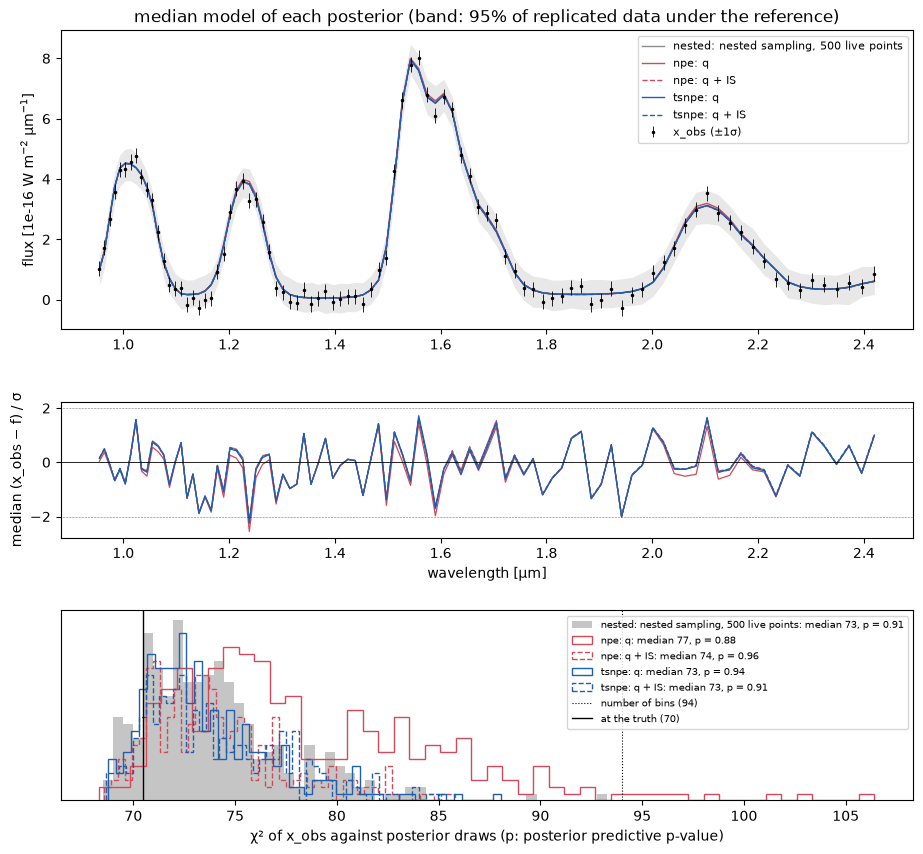
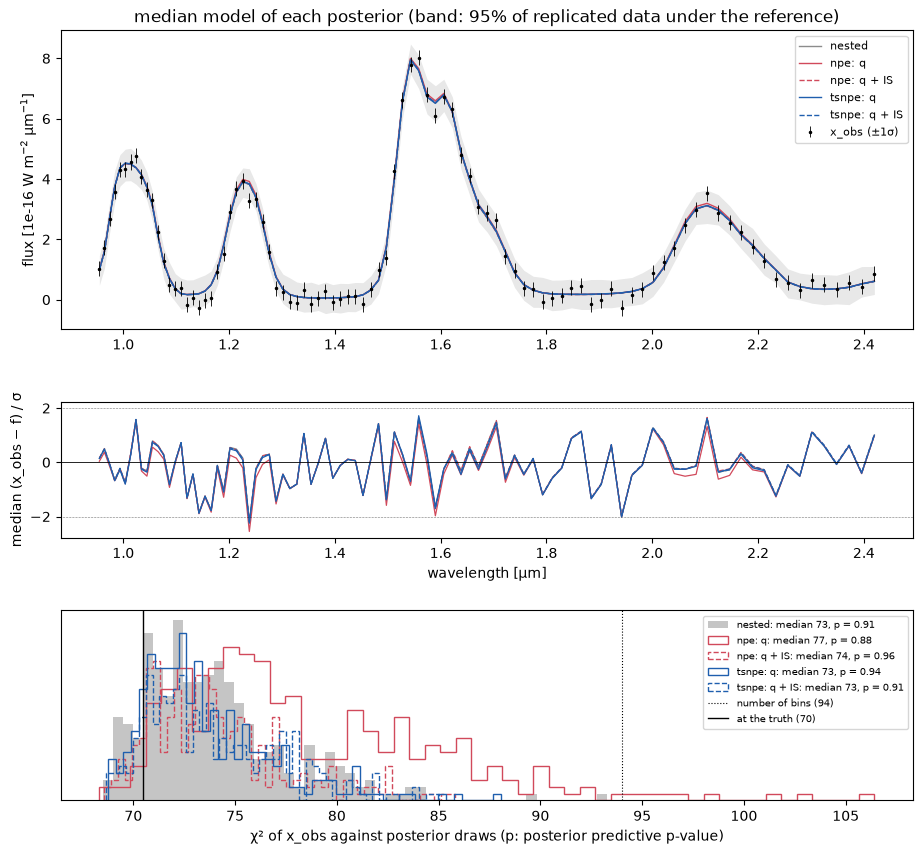
Polish: readable corner ticks, plainer comparison table, README wording
Claude-Session: https://claude.ai/code/session_01L5ndZ2ssohXfSJ8uPoT5r7

Changed region(s): [[0.6067, 0.7002, 0.9707, 0.8525], [0.6977, 0.0304, 0.9707, 0.1827]]

diff --git a/compare.py b/compare.py
@@ -18,6 +18,7 @@ import matplotlib
 
 matplotlib.use("Agg")
 import matplotlib.pyplot as plt
+import matplotlib.ticker
 import numpy as np
 from scipy.ndimage import gaussian_filter
 
@@ -34,7 +35,7 @@ def load_sets(folder: str, names: list, only_is: bool, min_ess: float = 50) -> l
         s = run["summary"]
         if run["q"] is None:  # nested sampling
             n_ref = sum(st["filled"] for st in sets)
-            sets.append(dict(label=f"{name}: {s['method']}", samples=run["samples"], color=["0.55", "0.25"][n_ref % 2],
+            sets.append(dict(label=name, samples=run["samples"], color=["0.55", "0.25"][n_ref % 2],
                              filled=n_ref == 0, ls="-", summary=s, run=run))
             continue
         color, k = COLORS[k % len(COLORS)], k + 1
@@ -96,6 +97,9 @@ def corner(model: Model, sets: list, idx: list, truth, path: str, bins: int = 40
                     ax.plot(truth[j], truth[i], "k+", ms=6)
                 ax.set_xlim(lo[j], up[j])
                 ax.set_ylim(lo[i], up[i])
+            ax.xaxis.set_major_locator(matplotlib.ticker.MaxNLocator(3, prune="both"))
+            if a != b:
+                ax.yaxis.set_major_locator(matplotlib.ticker.MaxNLocator(3, prune="both"))
             fs = 9 if n <= 15 else 7
             if a == n - 1:
                 ax.set_xlabel(model.names[j], fontsize=fs)
@@ -162,13 +166,14 @@ def ppc(model: Model, sets: list, x_obs: np.ndarray, truth, path: str, n: int = 
 
 
 def table(sets: list, chi2: list, path: str):
-    """Cost, importance-sampling ESS, log Z, fit, and the marginals against the reference (first nested run)."""
+    """Cost, importance-sampling ESS, log Z, fit, and the marginals against the reference (first nested run):
+    mean shift = mean over parameters of |Δ mean| / σ_ref, width ratio = median over parameters of σ / σ_ref."""
     ref = next((s["samples"] for s in sets if s["filled"]), None)
-    rows = ["| posterior | simulations | ESS | log Z | median χ² | mean \\|Δμ\\| / σ_ref | median σ / σ_ref |",
+    rows = ["| posterior | simulations | ESS | log Z | median χ² | mean shift (σ) | width ratio |",
             "|---|---|---|---|---|---|---|"]
     for s, c in zip(sets, chi2):
         su = s["summary"]
-        ess = f"{su['ess']:.0f}" if "ess" in su else "–"
+        ess = f"{su['ess']:,.0f}" if "ess" in su else "–"
         logz = f"{su['logz']:.2f}" + (f" ± {su['logz_err']:.2f}" if "logz_err" in su else "")
         if s["ls"] == "-" and not s["filled"]:
             ess = logz = "–"  # q itself: the ESS and log Z belong to its reweighted version

diff --git a/README.md b/README.md
@@ -6,15 +6,16 @@ parameters) with exact likelihoods, and three inference methods:
 - **TSNPE**: truncated sequential NPE.
 - **Nested sampling**: the likelihood-based reference.
 
-> **Disclaimer.** This codebase was entirely vibe-coded with an AI assistant. The physics is schematic and the code is not
-> validated for real data: do not use it for serious exoplanet science. Its purpose is to demonstrate how to do
-> simulation-based inference (NPE, TSNPE) and nested sampling on a problem shaped like an atmospheric retrieval.
+> **Disclaimer.** This codebase was entirely vibe-coded with an AI assistant. The physics is schematic and the
+> code is not validated on real data: do not use it for serious exoplanet science. Its purpose is to show how
+> to do simulation-based inference (NPE, TSNPE) and nested sampling on a problem shaped like an atmospheric
+> retrieval.
 
 ## Install
 
 ```bash
 pip install -e ".[test]"
-pytest
+pytest            # ~2 min on CPU
 ```
 
 The code runs on CPU and uses a GPU when there is one.
@@ -106,8 +107,8 @@ By default every method conditions on test pair 0. Choose another with `--obs 3`
 - **`npe.py`**: trains q(θ | x) once on prior simulations, then samples q(θ | x_obs).
 - **`tsnpe.py`**: works in rounds. Each round simulates from the prior restricted to where the last
   q(θ | x_obs) puts 1 − 10⁻⁴ of its mass, then retrains on all the simulations so far.
-- **`nested.py`**: dynesty with the exact likelihood. It gives log Z, at one simulation per likelihood
-  evaluation.
+- **`nested.py`**: dynesty (random slice sampling) with the exact likelihood. It gives log Z directly, but
+  each likelihood evaluation is one simulation.
 
 NPE and TSNPE finish with **importance sampling**: q's draws are reweighted by p(x | θ) p(θ) / q(θ | x).
 - **ESS** close to the number of draws means q is accurate; an ESS of a few means q is wrong.
@@ -115,12 +116,13 @@ NPE and TSNPE finish with **importance sampling**: q's draws are reweighted by p
 
 The options shared by all scripts are `--model`, `--obs`, `--seed`, `--out` and `--name`. See `--help`.
 
-## Results
+## Comparing runs
 
 `compare.py` writes three files to `runs/<model>/`:
 - **`corner.png`**: marginals. Nested sampling is grey; for NPE and TSNPE, q is solid and q + IS is dashed.
 - **`ppc.png`**: spectra of posterior draws, and the χ² of x_obs. A good posterior gives χ² ≈ the number of bins.
-- **`table.md`**: simulations used, ESS, log Z, χ², and the distance of the marginals to nested sampling.
+- **`table.md`**: simulations used, ESS, log Z and median χ². It also compares the marginals with nested
+  sampling: the mean shift (in its standard deviations) and the width ratio (1 = same width).
 
 ## Example: exo6
 
@@ -130,13 +132,13 @@ Each method run on the benchmark observation (test pair 0) with its default sett
 
 ![posterior predictive check](results/exo6/ppc.png)
 
-| posterior | simulations | ESS | log Z | median χ² | mean \|Δμ\| / σ_ref | median σ / σ_ref |
+| posterior | simulations | ESS | log Z | median χ² | mean shift (σ) | width ratio |
 |---|---|---|---|---|---|---|
-| nested: nested sampling, 500 live points | 483,205 | – | -12.11 ± 0.35 | 73 | – | – |
+| nested | 483,205 | – | -12.11 ± 0.35 | 73 | – | – |
 | npe: q | 100,000 | – | – | 77 | 0.31 | 1.14 |
-| npe: q + IS | 100,000 | 3523 | -11.85 | 74 | 0.03 | 0.99 |
+| npe: q + IS | 100,000 | 3,523 | -11.85 | 74 | 0.03 | 0.99 |
 | tsnpe: q | 100,000 | – | – | 73 | 0.06 | 0.99 |
-| tsnpe: q + IS | 100,000 | 15867 | -11.86 | 73 | 0.02 | 1.00 |
+| tsnpe: q + IS | 100,000 | 15,867 | -11.86 | 73 | 0.02 | 1.00 |
 
 - **All three agree.** The two log Z estimates from importance sampling are within nested sampling's error bar.
 - **NPE's q is slightly too broad** (1.14 times nested sampling's width). Importance sampling corrects it.
@@ -170,5 +172,5 @@ small differences.
 | `toysbi/runs.py` | run folders, shared script options |
 | `toysbi/data/` | the test pairs (`tests/make_test_pairs.py`) |
 | `*.py` | the scripts; `reproduce.sh` reruns the exo6 example |
-| `results/` | figures of the example |
+| `results/` | the exo6 example |
 | `tests/` | models, inference, scripts end to end |

diff --git a/results/exo6/table.md b/results/exo6/table.md
@@ -1,7 +1,7 @@
-| posterior | simulations | ESS | log Z | median χ² | mean \|Δμ\| / σ_ref | median σ / σ_ref |
+| posterior | simulations | ESS | log Z | median χ² | mean shift (σ) | width ratio |
 |---|---|---|---|---|---|---|
-| nested: nested sampling, 500 live points | 483,205 | – | -12.11 ± 0.35 | 73 | – | – |
+| nested | 483,205 | – | -12.11 ± 0.35 | 73 | – | – |
 | npe: q | 100,000 | – | – | 77 | 0.31 | 1.14 |
-| npe: q + IS | 100,000 | 3523 | -11.85 | 74 | 0.03 | 0.99 |
+| npe: q + IS | 100,000 | 3,523 | -11.85 | 74 | 0.03 | 0.99 |
 | tsnpe: q | 100,000 | – | – | 73 | 0.06 | 0.99 |
-| tsnpe: q + IS | 100,000 | 15867 | -11.86 | 73 | 0.02 | 1.00 |
+| tsnpe: q + IS | 100,000 | 15,867 | -11.86 | 73 | 0.02 | 1.00 |
